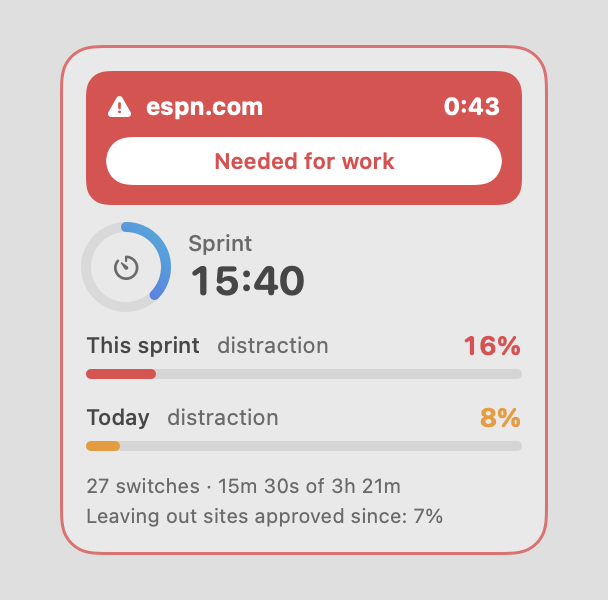
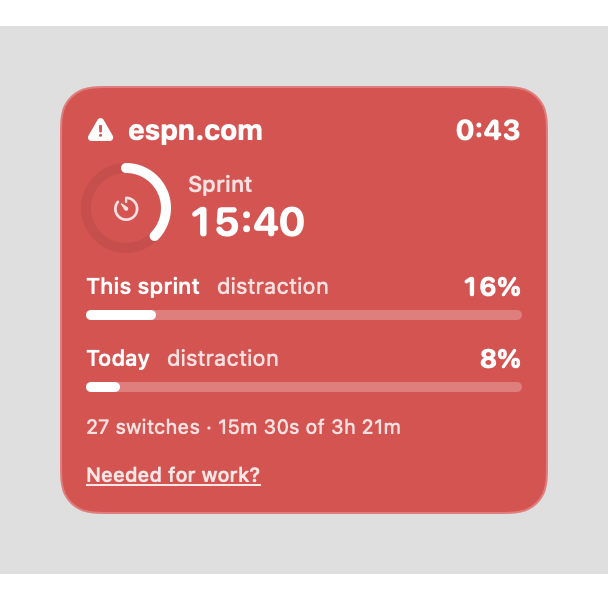
Turn the whole widget red on a distraction; quiet the request link
The white "Needed for work" button on a red banner was the most prominent
thing on the card. The card itself now goes red, led by the site name and
timer, and the request is a small underlined link at the bottom.

Sprint rows are hidden when no sprint is running, and an empty ring no
longer shows a stray dot.

diff --git a/Sources/FocusSprint/MeterPanel.swift b/Sources/FocusSprint/MeterPanel.swift
@@ -4,62 +4,46 @@ import SwiftUI
 import FocusSprintCore
 
 /// The always-on-top gauge: sprint progress, distraction in this sprint, distraction for the day.
+/// While the student is on a distraction the whole card turns red.
 struct MeterView: View {
     @ObservedObject var engine: SprintEngine
 
     var body: some View {
         let away = engine.awayNow
+        let alert = away != nil
+        let ink: Color = alert ? .white : .primary
+        let soft: Color = alert ? .white.opacity(0.82) : .secondary
         VStack(alignment: .leading, spacing: 11) {
             if let away {
-                VStack(alignment: .leading, spacing: 8) {
-                    HStack(spacing: 6) {
-                        Image(systemName: "exclamationmark.triangle.fill").font(.system(size: 11, weight: .bold))
-                        Text(away.label).font(.system(size: 12, weight: .bold)).lineLimit(1)
-                        Spacer(minLength: 4)
-                        Text(SprintEngine.clock(Date().timeIntervalSince(away.since))).font(Theme.number(12))
-                    }
-                    .foregroundStyle(.white)
-                    if let host = away.host, away.category == .distraction {
-                        switch engine.disputeOption(for: host) {
-                        case .available:
-                            Button { DisputePrompt.ask(host: host, engine: engine) } label: {
-                                Text("Needed for work")
-                                    .font(.system(size: 11, weight: .semibold))
-                                    .foregroundStyle(Theme.bad)
-                                    .frame(maxWidth: .infinity)
-                                    .padding(.vertical, 5)
-                                    .background(.white, in: Capsule())
-                            }
-                            .buttonStyle(.plain)
-                        case .sent:
-                            Label("Checking your request…", systemImage: "hourglass")
-                                .font(.system(size: 11, weight: .medium)).foregroundStyle(.white.opacity(0.9))
-                        case .closed:
-                            EmptyView()
-                        }
-                    }
+                HStack(spacing: 6) {
+                    Image(systemName: "exclamationmark.triangle.fill").font(.system(size: 12, weight: .bold))
+                    Text(away.label).font(.system(size: 14, weight: .bold)).lineLimit(1)
+                    Spacer(minLength: 4)
+                    Text(SprintEngine.clock(Date().timeIntervalSince(away.since))).font(Theme.number(14))
                 }
-                .padding(10)
-                .background(Theme.bad, in: RoundedRectangle(cornerRadius: 11, style: .continuous))
+                .foregroundStyle(.white)
             }
 
-            HStack(spacing: 11) {
-                ZStack {
-                    Ring(progress: engine.sprintProgress, lineWidth: 5, tint: nil)
-                    Image(systemName: engine.phase == .onBreak ? "cup.and.saucer.fill" : "timer")
-                        .font(.system(size: 12, weight: .semibold)).foregroundStyle(.secondary)
+            if engine.phase != .idle {
+                HStack(spacing: 11) {
+                    ZStack {
+                        Ring(progress: engine.sprintProgress, lineWidth: 5, tint: alert ? .white : nil)
+                        Image(systemName: engine.phase == .onBreak ? "cup.and.saucer.fill" : "timer")
+                            .font(.system(size: 12, weight: .semibold)).foregroundStyle(soft)
+                    }
+                    .frame(width: 40, height: 40)
+                    VStack(alignment: .leading, spacing: 0) {
+                        Text(engine.phase == .running ? "Sprint" : "Break").font(.system(size: 11, weight: .medium)).foregroundStyle(soft)
+                        Text(SprintEngine.clock(engine.remaining)).font(Theme.number(20)).foregroundStyle(ink)
+                    }
+                    Spacer(minLength: 0)
                 }
-                .frame(width: 40, height: 40)
-                VStack(alignment: .leading, spacing: 0) {
-                    Text(engine.phase == .running ? "Sprint" : (engine.phase == .onBreak ? "Break" : "No sprint running"))
-                        .font(.system(size: 11, weight: .medium)).foregroundStyle(.secondary)
-                    Text(engine.phase == .idle ? "—" : SprintEngine.clock(engine.remaining)).font(Theme.number(20))
-                }
-                Spacer(minLength: 0)
             }
 
-            bar(title: "This sprint", value: engine.phase == .running ? engine.sprintDistraction : nil)
-            bar(title: "Today", value: engine.todayDistraction)
+            if engine.phase == .running {
+                bar(title: "This sprint", value: engine.sprintDistraction, alert: alert)
+            }
+            bar(title: "Today", value: engine.todayDistraction, alert: alert)
 
             VStack(alignment: .leading, spacing: 2) {
                 Text("\(engine.todaySwitches) switches · \(Format.duration(engine.todayAway)) of \(Format.duration(engine.todaySprintSeconds))")
@@ -70,30 +54,52 @@ struct MeterView: View {
                     Text("Searches: \(engine.searchCounts.work) work · \(engine.searchCounts.distraction) distraction")
                 }
             }
-            .font(.system(size: 10)).foregroundStyle(.secondary)
+            .font(.system(size: 10)).foregroundStyle(soft)
+
+            // Deliberately quiet: available when it is true, but not the thing the card invites you to press.
+            if let away, let host = away.host, away.category == .distraction {
+                switch engine.disputeOption(for: host) {
+                case .available:
+                    Button { DisputePrompt.ask(host: host, engine: engine) } label: {
+                        Text("Needed for work?").font(.system(size: 10, weight: .medium)).underline()
+                            .foregroundStyle(.white.opacity(0.85))
+                    }
+                    .buttonStyle(.plain)
+                case .sent:
+                    Label("Checking your request…", systemImage: "hourglass")
+                        .font(.system(size: 10, weight: .medium)).foregroundStyle(.white.opacity(0.85))
+                case .closed:
+                    EmptyView()
+                }
+            }
         }
         .padding(13)
         .frame(width: 244)
-        .background(.regularMaterial, in: RoundedRectangle(cornerRadius: 18, style: .continuous))
+        .background {
+            if alert {
+                RoundedRectangle(cornerRadius: 18, style: .continuous).fill(Theme.bad)
+            } else {
+                RoundedRectangle(cornerRadius: 18, style: .continuous).fill(.regularMaterial)
+            }
+        }
         .overlay(RoundedRectangle(cornerRadius: 18, style: .continuous)
-            .strokeBorder(away != nil ? Theme.bad.opacity(0.8) : Color.primary.opacity(0.12), lineWidth: away != nil ? 1.5 : 1))
+            .strokeBorder(alert ? Color.white.opacity(0.25) : Color.primary.opacity(0.12), lineWidth: 1))
     }
 
-    /// One distraction meter. `nil` means "not applicable right now".
-    private func bar(title: String, value: Double?) -> some View {
+    private func bar(title: String, value: Double, alert: Bool) -> some View {
         VStack(alignment: .leading, spacing: 4) {
             HStack {
-                Text(title).font(.system(size: 11, weight: .medium))
-                Text("distraction").font(.system(size: 11)).foregroundStyle(.secondary)
+                Text(title).font(.system(size: 11, weight: .medium)).foregroundStyle(alert ? .white : .primary)
+                Text("distraction").font(.system(size: 11)).foregroundStyle(alert ? .white.opacity(0.82) : .secondary)
                 Spacer()
-                Text(value.map { "\(Int(($0 * 100).rounded()))%" } ?? "—")
-                    .font(Theme.number(13)).foregroundStyle(value.map(levelColor) ?? .secondary)
+                Text("\(Int((value * 100).rounded()))%")
+                    .font(Theme.number(13)).foregroundStyle(alert ? .white : levelColor(value))
             }
             GeometryReader { geo in
                 ZStack(alignment: .leading) {
-                    Capsule().fill(Color.primary.opacity(0.10))
-                    Capsule().fill(levelColor(value ?? 0))
-                        .frame(width: max((value ?? 0) > 0 ? 5 : 0, geo.size.width * (value ?? 0)))
+                    Capsule().fill(alert ? Color.white.opacity(0.25) : Color.primary.opacity(0.10))
+                    Capsule().fill(alert ? Color.white : levelColor(value))
+                        .frame(width: max(value > 0 ? 5 : 0, geo.size.width * value))
                 }
             }
             .frame(height: 5)

diff --git a/Sources/FocusSprint/Snapshots.swift b/Sources/FocusSprint/Snapshots.swift
@@ -36,7 +36,11 @@ enum Snapshots {
             Shot(name: "5-parent-locked", size: window, view: { app(.parent) }),
             Shot(name: "6-widget-away", size: CGSize(width: 304, height: 300), prepare: { engine.debugPreview("away") },
                  view: { padded(MeterView(engine: engine)) }),
-            Shot(name: "7-widget-calm", size: CGSize(width: 304, height: 230), prepare: { engine.debugPreview("idle") },
+            Shot(name: "7-widget-calm", size: CGSize(width: 304, height: 180), prepare: { engine.debugPreview("idle") },
+                 view: { padded(MeterView(engine: engine)) }),
+            Shot(name: "7b-widget-away-no-sprint", size: CGSize(width: 304, height: 220), prepare: { engine.debugPreview("away-idle") },
+                 view: { padded(MeterView(engine: engine)) }),
+            Shot(name: "7c-widget-sprint-calm", size: CGSize(width: 304, height: 260), prepare: { engine.debugPreview("running") },
                  view: { padded(MeterView(engine: engine)) }),
             Shot(name: "8-dialog-request", size: CGSize(width: 500, height: 470),
                  view: { padded(RequestDialog(host: "youtube.com", onSend: { _, _, _ in }, onCancel: {})) }),
@@ -110,7 +114,7 @@ extension SprintEngine {
     func debugPreview(_ mode: String) {
         stopTimerForPreview()
         let now = Date()
-        setPreview(running: mode != "idle", away: mode == "away", now: now)
+        setPreview(running: mode == "running" || mode == "away", away: mode.hasPrefix("away"), now: now)
     }
 }
 #endif

diff --git a/Sources/FocusSprint/Theme.swift b/Sources/FocusSprint/Theme.swift
@@ -72,10 +72,11 @@ struct Ring: View {
         ZStack {
             Circle().stroke(Color.primary.opacity(0.08), lineWidth: lineWidth)
             Circle()
-                .trim(from: 0, to: max(0.001, min(1, progress)))
+                .trim(from: 0, to: max(0, min(1, progress)))
                 .stroke(tint.map { AnyShapeStyle($0) } ?? AnyShapeStyle(Theme.gradient),
                         style: StrokeStyle(lineWidth: lineWidth, lineCap: .round))
                 .rotationEffect(.degrees(-90))
+                .opacity(progress > 0 ? 1 : 0) // no stray dot on an empty ring
         }
     }
 }

diff --git a/Sources/FocusSprint/SprintEngine.swift b/Sources/FocusSprint/SprintEngine.swift
@@ -308,7 +308,7 @@ final class SprintEngine: ObservableObject {
             phase = .running
         } else {
             start = nil
-            awayNow = nil
+            awayNow = away ? ("rediff.com", now.addingTimeInterval(-8), .distraction, "rediff.com") : nil
             phase = .idle
             lastSummary = SprintSummary(task: "Algebra homework, chapter 4", status: .completed, focusPercent: 92,
                                         switches: 3, awaySeconds: 118)
